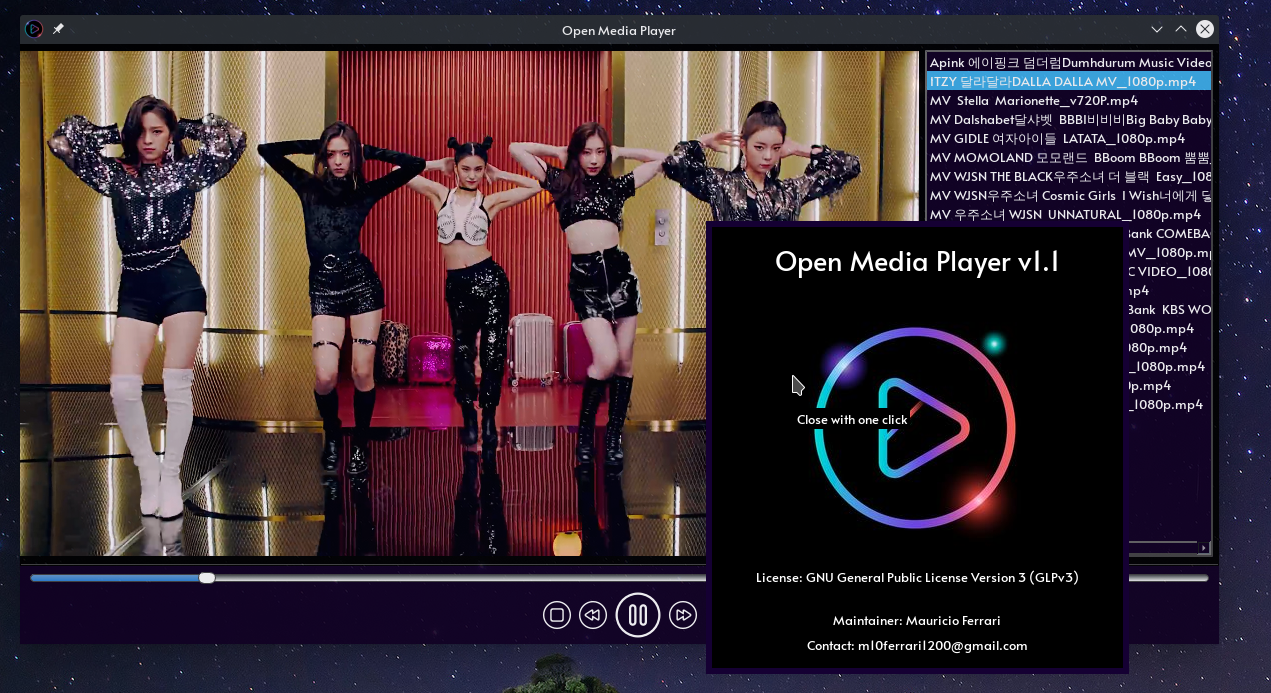
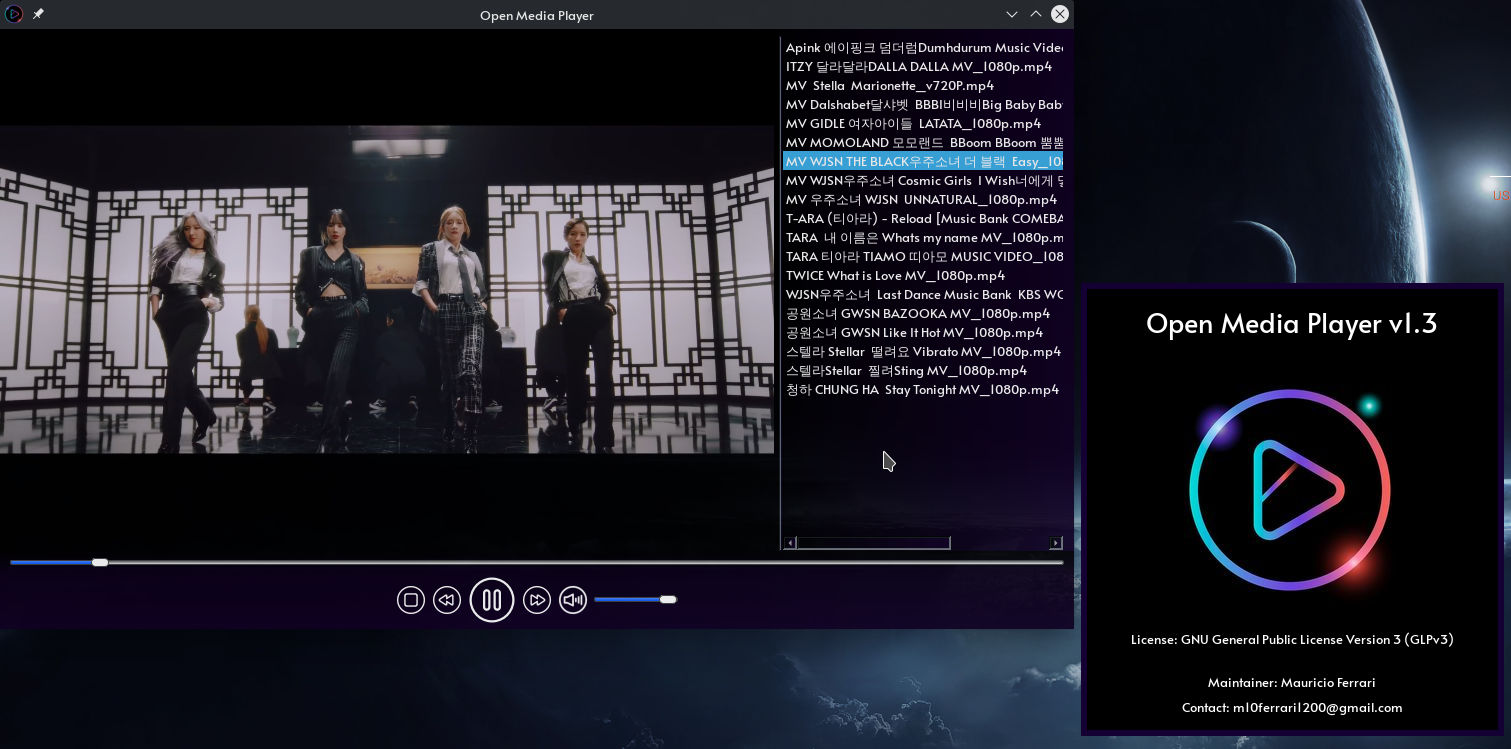
Update version 1.3 - 2021/12/07

diff --git a/src/OpenMediaPlayer.py b/src/OpenMediaPlayer.py
@@ -36,7 +36,7 @@ from os.path import dirname
 from sys import argv
 
 # Módulos do PyQt5
-from PyQt5.QtCore import Qt, QDir, QUrl, QPoint, QFileInfo, QTimer
+from PyQt5.QtCore import Qt, QDir, QUrl, QPoint, QFileInfo, QTimer, QEvent
 from PyQt5.QtGui import QKeySequence, QPixmap, QIcon
 from PyQt5.QtMultimedia import QMediaPlayer, QMediaContent, QMediaPlaylist
 from PyQt5.QtWidgets import (QApplication, QWidget, QFileDialog, QAction, QMenu, QHBoxLayout, QShortcut, QGridLayout,
@@ -499,6 +499,17 @@ class MultimediaPlayer(QWidget):
     def leaveEvent(self, event):
         self.caffeine = 0  # Desativa o hack.
 
+    def changeEvent(self, event):
+        if event.type() == QEvent.WindowStateChange:
+            if int(self.windowState()) == 0:  # Restaurar
+                write_json('maximized', False)
+            elif int(self.windowState()) == 1:  # Minimização
+                pass
+            elif int(self.windowState()) == 2:  # Maximização
+                write_json('maximized', True)
+            elif int(self.windowState()) == 3:  # Minimização direta
+                pass
+
 
     # def mousePressEvent(self, evt):
     #     self.oldPos = evt.globalPos()
@@ -519,5 +530,8 @@ if __name__ == '__main__':
     openMediaplayer = QApplication(argv)
     multimediaPlayer = MultimediaPlayer(argv[1:])
     # multimediaPlayer.setWindowFlags(Qt.FramelessWindowHint | Qt.WindowStaysOnTopHint)
-    multimediaPlayer.show()
+    if set_json('maximized') is True:
+        multimediaPlayer.showMaximized()
+    else:
+        multimediaPlayer.show()
     exit(openMediaplayer.exec_())  # Finalização correta do programa

diff --git a/src/widgets.py b/src/widgets.py
@@ -10,7 +10,7 @@ from pymouse import PyMouse  # pip install PyUserInput
 from PyQt5.QtCore import QSize, QTimer, pyqtSlot, Qt, pyqtSignal, QRect
 from PyQt5.QtMultimedia import QMediaPlayer
 from PyQt5.QtMultimediaWidgets import QVideoWidget
-from PyQt5.QtWidgets import QPushButton, QLabel, QSlider, QApplication, QWidget, QStyle, QListView
+from PyQt5.QtWidgets import QPushButton, QLabel, QSlider, QApplication, QWidget, QStyle, QListView, QSizePolicy
 
 # Essa variável vai servir para auxiliar o mapeamento de clique único
 state = None
@@ -172,6 +172,9 @@ class VideoWidget(QVideoWidget):
         self.timer = QTimer()
         self.timer.timeout.connect(self.changeMouse)
         self.timer.start()
+
+        # Correções na política de redirecionamento
+        self.setSizePolicy(QSizePolicy.Ignored, QSizePolicy.Ignored)
 
         # Após o término do vídeo reproduzido, ao tentar executar o vídeo novamente, o fundo não fica mais preto.
         # Esse recurso vai garantir que a cor no fundo do vídeo vai ser preto e deu e tá acabado.

diff --git a/src/jsonTools.py b/src/jsonTools.py
@@ -12,6 +12,7 @@ j_file = j_folder + '/settings.json'
 
 default_js = {
   "playlist": False,
+  "maximized": False,
   "theme": "circle"
 }
 
